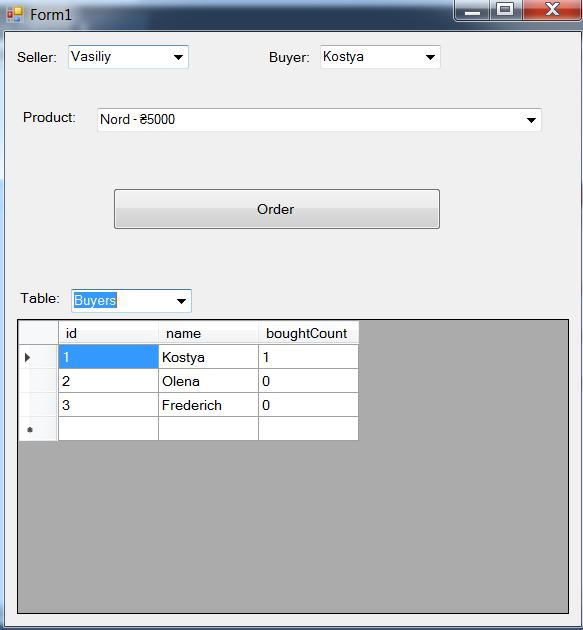
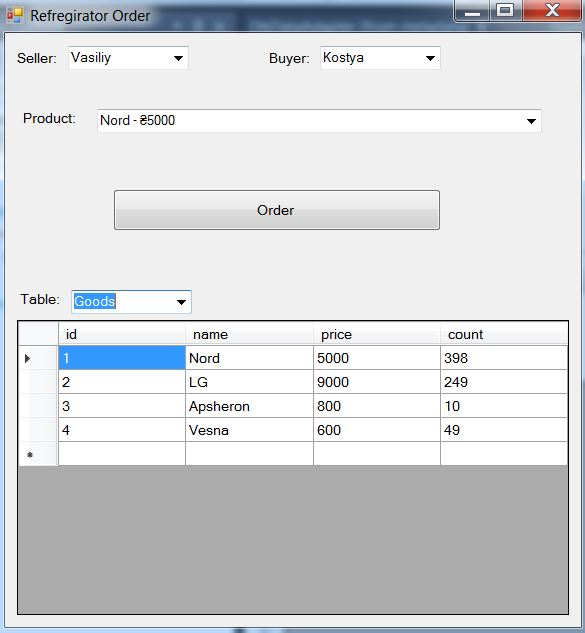
v3

diff --git a/Ado.net - HW 4 - MySql,Winforms/Form1.cs b/Ado.net - HW 4 - MySql,Winforms/Form1.cs
@@ -11,20 +11,11 @@ using MySql.Data.MySqlClient;
 
 namespace Ado.net___HW_4___MySql_Winforms
 {
-	public static class MyTransaction
-	{
-		public static void EnlistTransaction(this MySqlDataAdapter dataAdapter, MySqlTransaction transaction)
-		{
-			dataAdapter.UpdateCommand.Transaction = transaction;
-			dataAdapter.InsertCommand.Transaction = transaction;
-	//		dataAdapter.DeleteCommand.Transaction = transaction;
-		}
-	}
 	public partial class Form1 : Form
 	{
 		MySqlConnection sqlConnection;
 		DataSet dataSet;
-		MySqlDataAdapter dataAdapter;
+		MySqlDataAdapter dataAdapterBuyers, dataAdapterSellers, dataAdapterGoods, dataAdapterOrders;
 		public Form1()
 		{
 			InitializeComponent();
@@ -103,21 +94,21 @@ namespace Ado.net___HW_4___MySql_Winforms
 				{
 			//		MessageBox.Show(ex.Message, "2");
 				}
-
-
+				
 				dataSet = new DataSet();
-				dataAdapter = new MySqlDataAdapter("select * from Buyers", sqlConnection);
-				MySqlCommandBuilder mySqlCommandBuilder = new MySqlCommandBuilder(dataAdapter);
-				dataAdapter.UpdateCommand = mySqlCommandBuilder.GetUpdateCommand();
-				dataAdapter.InsertCommand = mySqlCommandBuilder.GetInsertCommand();
-				dataAdapter.Fill(dataSet, "Buyers");
+				dataAdapterBuyers = new MySqlDataAdapter("select * from Buyers", sqlConnection);
+				setDataAdapterCommands(dataAdapterBuyers);
+				dataAdapterBuyers.Fill(dataSet, "Buyers");
 				dataGridView1.DataSource = dataSet.Tables[0];
-				dataAdapter.SelectCommand = new MySqlCommand("select * from Sellers", sqlConnection);
-				dataAdapter.Fill(dataSet, "Sellers");
-				dataAdapter.SelectCommand = new MySqlCommand("select * from Goods", sqlConnection);
-				dataAdapter.Fill(dataSet, "Goods");
-				dataAdapter.SelectCommand = new MySqlCommand("select * from Orders", sqlConnection);
-				dataAdapter.Fill(dataSet, "Orders");
+				dataAdapterSellers = new MySqlDataAdapter("select * from Sellers", sqlConnection);
+				setDataAdapterCommands(dataAdapterSellers);
+				dataAdapterSellers.Fill(dataSet, "Sellers");
+				dataAdapterGoods = new MySqlDataAdapter("select * from Goods", sqlConnection);
+				setDataAdapterCommands(dataAdapterGoods);
+				dataAdapterGoods.Fill(dataSet, "Goods");
+				dataAdapterOrders = new MySqlDataAdapter("select * from Orders", sqlConnection);
+				setDataAdapterCommands(dataAdapterOrders);
+				dataAdapterOrders.Fill(dataSet, "Orders");
 
 				foreach (DataTable table in dataSet.Tables)
 				{
@@ -150,54 +141,76 @@ namespace Ado.net___HW_4___MySql_Winforms
 			}
 			finally
 			{
-			//	sqlConnection?.Close();
+				sqlConnection?.Close();
 			}
 		}
-
+		void EnlistTransaction(MySqlDataAdapter dataAdapter, MySqlTransaction transaction)
+		{
+			dataAdapter.UpdateCommand.Transaction = transaction;
+			dataAdapter.InsertCommand.Transaction = transaction;
+			dataAdapter.DeleteCommand.Transaction = transaction;
+		}
+		void setDataAdapterCommands(MySqlDataAdapter dataAdapter)
+		{
+			MySqlCommandBuilder mySqlCommandBuilder = new MySqlCommandBuilder(dataAdapter);
+			dataAdapter.UpdateCommand = mySqlCommandBuilder.GetUpdateCommand();
+			dataAdapter.InsertCommand = mySqlCommandBuilder.GetInsertCommand();
+			dataAdapter.DeleteCommand = mySqlCommandBuilder.GetDeleteCommand();
+		}
 		private void comboBoxTables_SelectedIndexChanged(object sender, EventArgs e)
 		{
 			dataGridView1.DataSource = dataSet.Tables[comboBoxTables.SelectedIndex];
 		}
-
+		void setTransaction(MySqlTransaction mySqlTransaction)
+		{
+			EnlistTransaction(dataAdapterBuyers, mySqlTransaction);
+			EnlistTransaction(dataAdapterSellers,mySqlTransaction);
+			EnlistTransaction(dataAdapterGoods,mySqlTransaction);
+			EnlistTransaction(dataAdapterOrders,mySqlTransaction);
+		}
 		private void button1_Click(object sender, EventArgs e)
 		{
 			try
 			{
+				sqlConnection.Open();
 				using (MySqlTransaction mySqlTransaction = sqlConnection.BeginTransaction())
 				{
-					dataAdapter.EnlistTransaction(mySqlTransaction);
+					setTransaction(mySqlTransaction);
 
 					int count = 1;
 					DataRow dr = dataSet.Tables["Orders"].NewRow();
-					dr[0] = dataSet.Tables["Orders"].Rows.Count;
-					dr[1] = DateTime.Now;
-					dr[2] = dataSet.Tables["Buyers"].Rows[comboBoxBuyer.SelectedIndex][1].ToString();
-					dr[3] = dataSet.Tables["Sellers"].Rows[comboBoxSeller.SelectedIndex][1].ToString();
-					dr[4] = comboBoxProducts.SelectedIndex;
-					dr[5] = count;
-					dr[6] = dataSet.Tables["Goods"].Rows[comboBoxProducts.SelectedIndex][2];
-					
+					dr["id"] = dataSet.Tables["Orders"].Rows.Count;
+					dr["date"] = DateTime.Now;
+					dr["buyerName"] = dataSet.Tables["Buyers"].Rows[comboBoxBuyer.SelectedIndex]["name"].ToString();
+					dr["sellerName"] = dataSet.Tables["Sellers"].Rows[comboBoxSeller.SelectedIndex]["name"].ToString();
+					dr["good_id"] = comboBoxProducts.SelectedIndex;
+					dr["count"] = count;
+					dr["amount"] = (int)dataSet.Tables["Goods"].Rows[comboBoxProducts.SelectedIndex]["price"] * count;
+					dataSet.Tables["Orders"].Rows.Add(dr);
+					dataAdapterOrders.Update(dataSet, "Orders");
 
 					DataRow dr2 = dataSet.Tables["Buyers"].Rows[comboBoxBuyer.SelectedIndex];
 					dr2[2] = (int)dr2[2]+1;
+					dataAdapterBuyers.Update(dataSet, "Buyers");
 
 					DataRow dr3 = dataSet.Tables["Sellers"].Rows[comboBoxSeller.SelectedIndex];
 					dr3[2] = (int)dr3[2] + 1;
+					dataAdapterSellers.Update(dataSet, "Sellers");
 
 					DataRow dr4 = dataSet.Tables["Goods"].Rows[comboBoxProducts.SelectedIndex];
 					dr4[3] = (int)dr4[3] - 1;
-
-					foreach (DataTable item in dataSet.Tables)
-					{
-						dataAdapter.Update(dataSet, item.TableName);
-					}
-
+					dataAdapterGoods.Update(dataSet, "Goods");
+					
 					mySqlTransaction.Commit();
 				}
 			}
 			catch (Exception ex)
 			{
 				MessageBox.Show(ex.Message);
+			}
+			finally
+			{
+				sqlConnection?.Close();
 			}
 		}
 	}

diff --git a/Ado.net - HW 4 - MySql,Winforms/Form1.Designer.cs b/Ado.net - HW 4 - MySql,Winforms/Form1.Designer.cs
@@ -45,9 +45,11 @@
 			// 
 			this.dataGridView1.Anchor = ((System.Windows.Forms.AnchorStyles)(((System.Windows.Forms.AnchorStyles.Bottom | System.Windows.Forms.AnchorStyles.Left) 
             | System.Windows.Forms.AnchorStyles.Right)));
+			this.dataGridView1.AutoSizeColumnsMode = System.Windows.Forms.DataGridViewAutoSizeColumnsMode.Fill;
 			this.dataGridView1.ColumnHeadersHeightSizeMode = System.Windows.Forms.DataGridViewColumnHeadersHeightSizeMode.AutoSize;
 			this.dataGridView1.Location = new System.Drawing.Point(12, 287);
 			this.dataGridView1.Name = "dataGridView1";
+			this.dataGridView1.ReadOnly = true;
 			this.dataGridView1.RowTemplate.Height = 24;
 			this.dataGridView1.Size = new System.Drawing.Size(552, 295);
 			this.dataGridView1.TabIndex = 0;
@@ -147,7 +149,7 @@
 			this.Controls.Add(this.comboBoxTables);
 			this.Controls.Add(this.dataGridView1);
 			this.Name = "Form1";
-			this.Text = "Form1";
+			this.Text = "Refregirator Order";
 			((System.ComponentModel.ISupportInitialize)(this.dataGridView1)).EndInit();
 			this.ResumeLayout(false);
 			this.PerformLayout();
